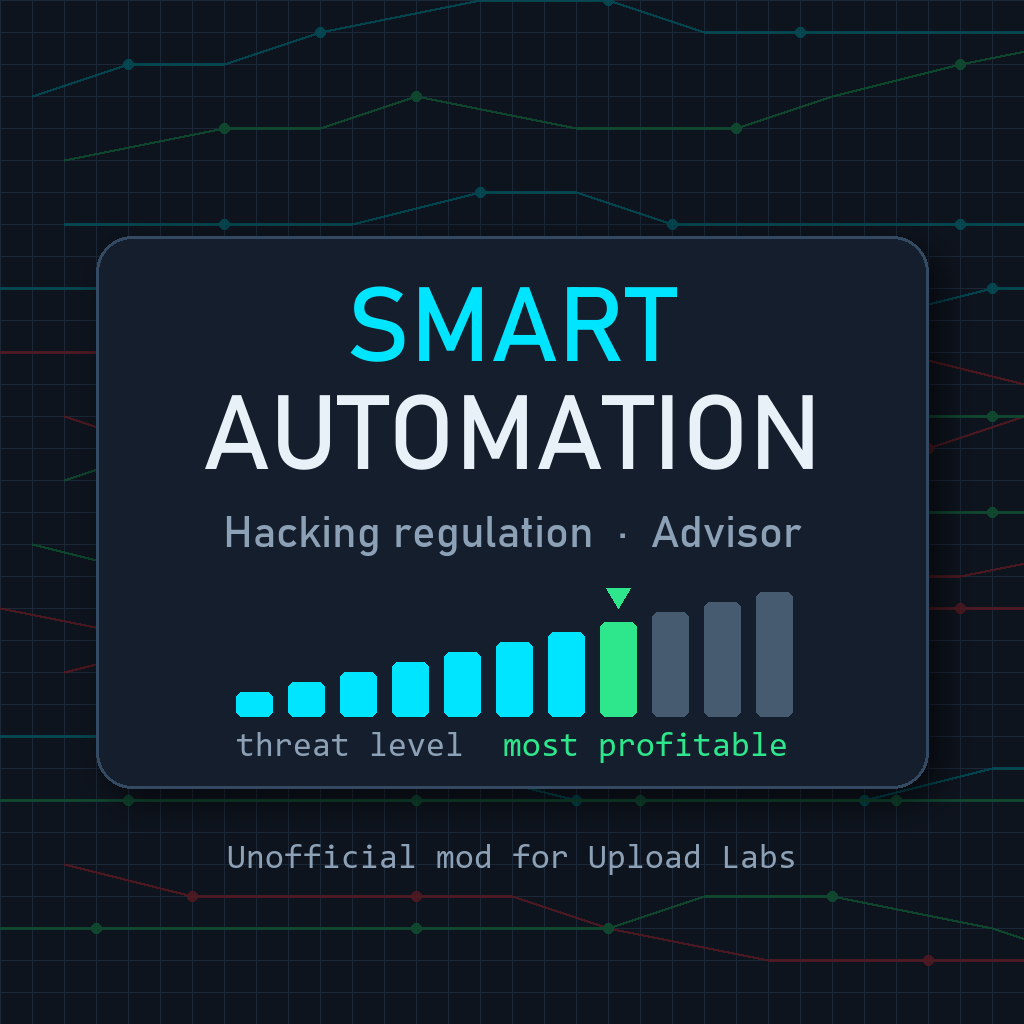
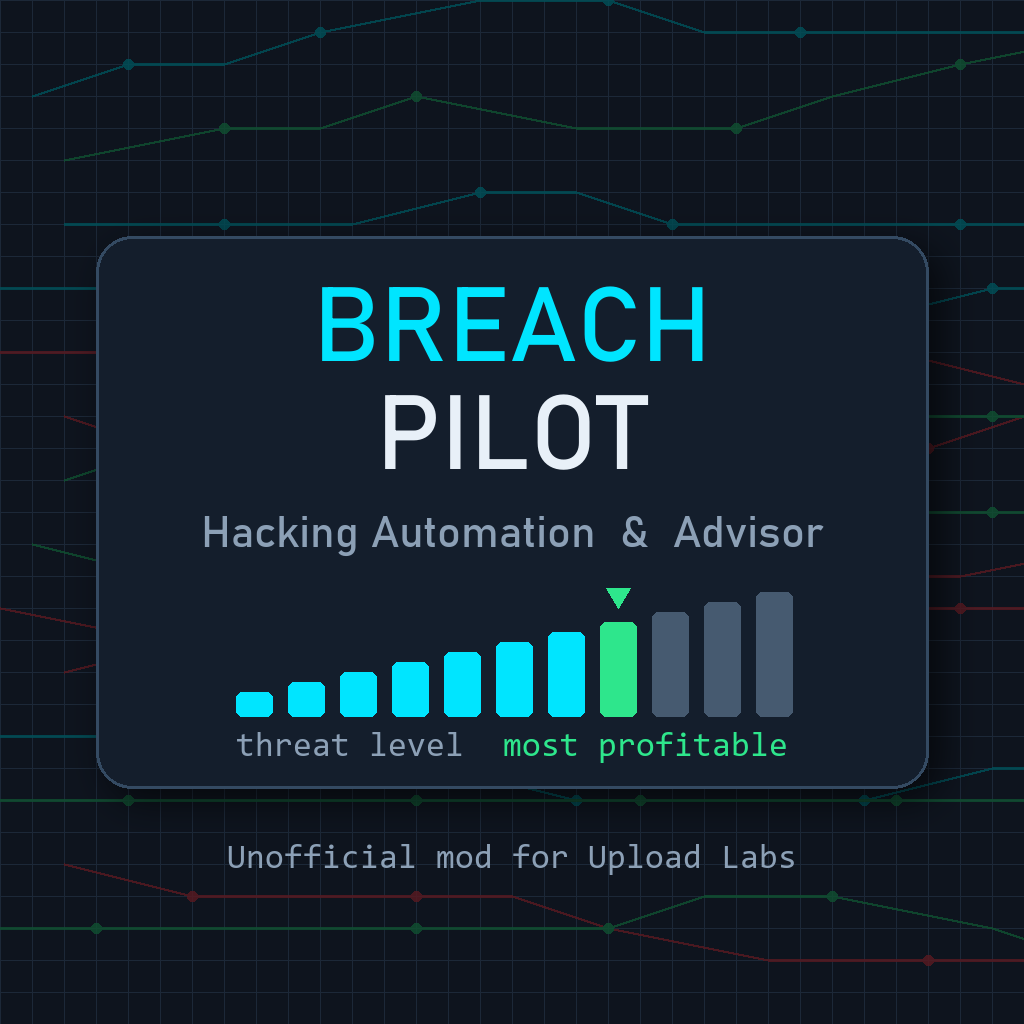
Apply the review of the rename
Log only the names and types of save candidates, never their values;
verify every archive entry against its source; BreachPilot on the
Workshop preview; restore two texts of the English description; add the
screenshot captions.

Changed region(s): [[0.1875, 0.2812, 0.8125, 0.4688], [0.1875, 0.5, 0.8125, 0.5625]]

diff --git a/tools/verify_zip.py b/tools/verify_zip.py
@@ -60,8 +60,11 @@ def main() -> int:
         if set(files) != on_disk:
             fail(errors, "archive differs from the mod folder: missing %s, extra %s" % (sorted(on_disk - set(files)), sorted(set(files) - on_disk)))
 
-        if PREFIX + "LICENSE" in names and archive.read(PREFIX + "LICENSE") != (ROOT / "LICENSE").read_bytes():
-            fail(errors, "LICENSE differs from the repository's")
+        # Every entry holds exactly its source: an archive left over from before a fix is refused.
+        for name in sorted(set(files) & on_disk):
+            source = ROOT / "LICENSE" if name == PREFIX + "LICENSE" else ROOT / name
+            if archive.read(name) != source.read_bytes():
+                fail(errors, f"{name} differs from its source: rebuild the archive")
         manifest = json.loads(archive.read(PREFIX + "manifest.json").decode("utf-8"))
         main_gd = archive.read(PREFIX + "mod_main.gd").decode("utf-8")
         shipped_build = re.search(r'const BUILD := "([^"]+)"', main_gd).group(1)

diff --git a/docs/workshop/screenshots.md b/docs/workshop/screenshots.md
@@ -1,0 +1,12 @@
+# Captures d'écran · Screenshots
+
+Légendes des quatre captures, pour GitHub et le Workshop. *Captions of the four screenshots, for GitHub and the Workshop.*
+
+| # | Capture | Français | English |
+|---|---|---|---|
+| 1 | Nœud d'infiltration avec l'état « Auto » | La régulation garde chaque nœud d'infiltration sur son niveau le plus rentable. Pause et reprise sur le nœud. | The regulation keeps each Breach node on its most profitable level. Pause and resume right on the node. |
+| 2 | Carte de recommandation | Le meilleur branchement d'abord : les étapes, le gain estimé, les inconvénients et la fiabilité. | The best wiring first: the steps, the estimated gain, the drawbacks and how reliable it is. |
+| 3 | Section « À essayer » | « À essayer » signale les nœuds sans puissance, les sorties libres et les nœuds débloqués pas encore posés. | “Things to try” points out unpowered nodes, free outputs and unlocked nodes not placed yet. |
+| 4 | Détail des calculs ouvert | Le détail des calculs compare chaque branchement et chaque achat, cible par cible. | The detailed figures compare every wiring and every purchase, target by target. |
+
+Fichiers attendus dans `docs/workshop/` : `screenshot-1-node.png`, `screenshot-2-recommendation.png`, `screenshot-3-things-to-try.png`, `screenshot-4-details.png`.
